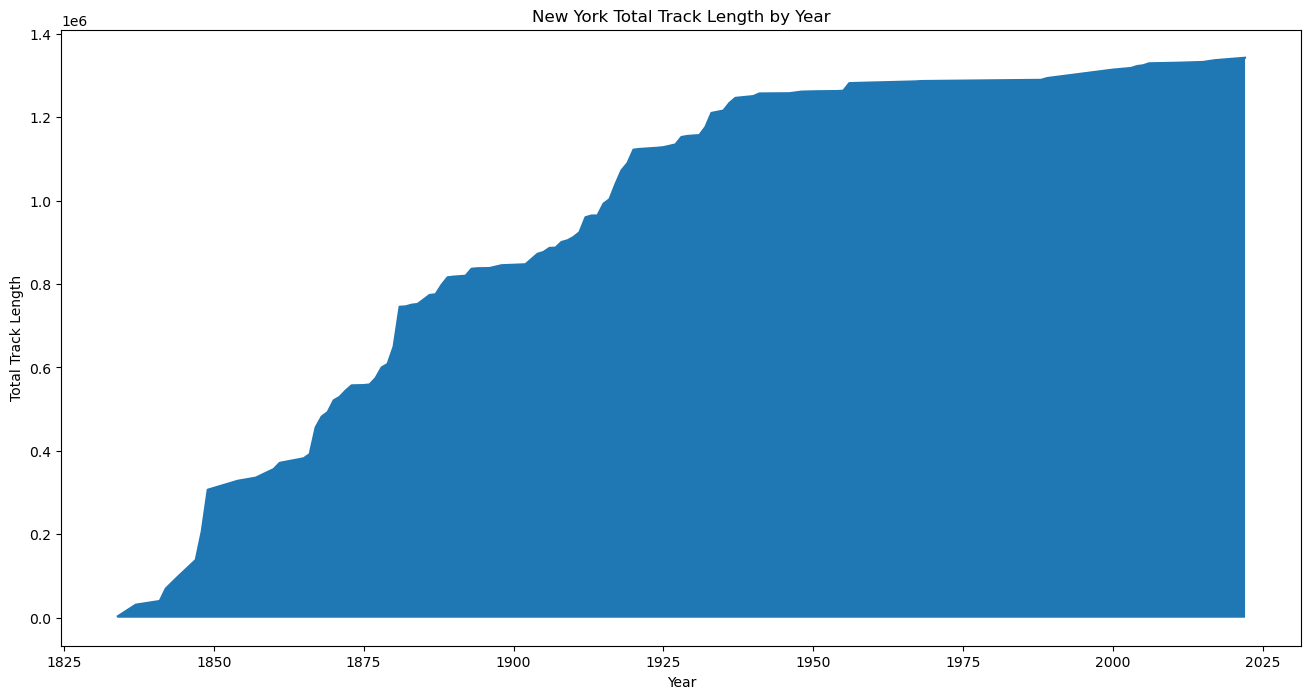
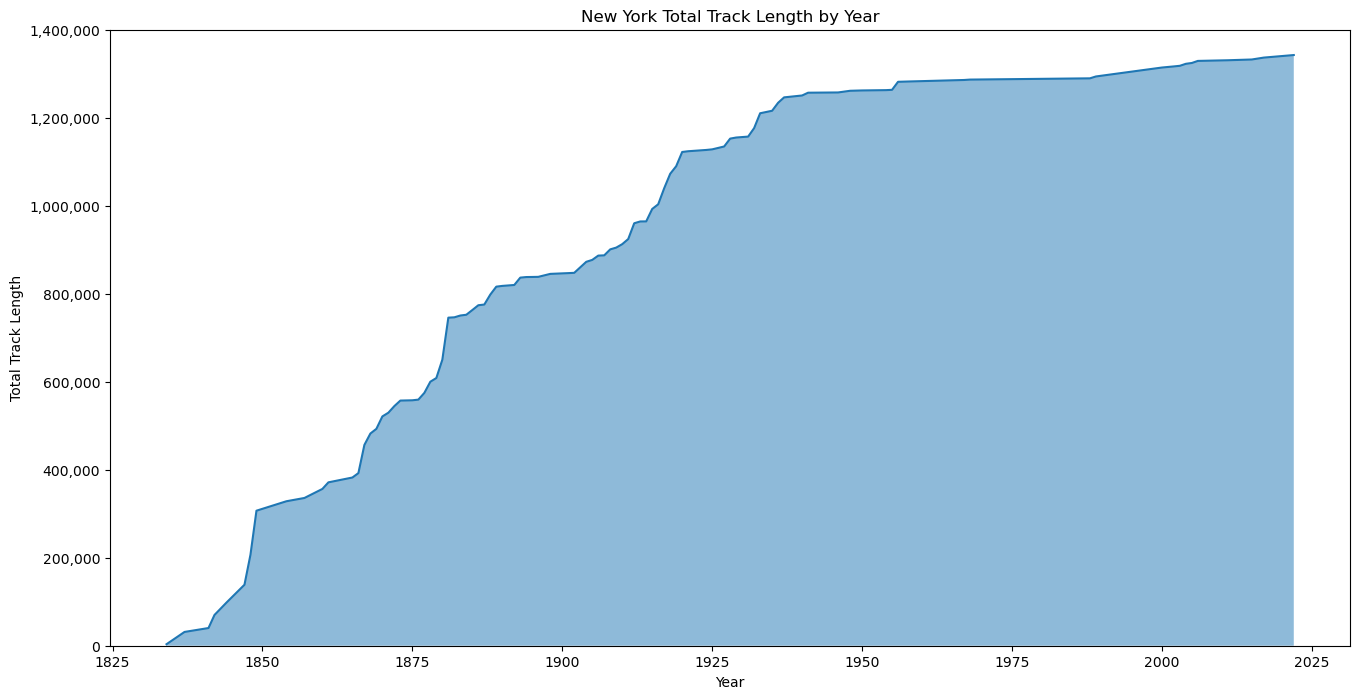
save new images, update readme

diff --git a/README.md b/README.md
@@ -12,22 +12,24 @@
 ## Table of Contents
 - [Introduction](#introduction)
 - [Overall](#overall)
-- [Top 5 Countries](#top-5-countries)
+    - [Top 5 Countries](#top-5-countries)
     - [Transit Lines Opened per Year](#transit-lines-opened-per-year)
-- [US Transit Line Counts](#us-transit-line-counts)
-- [US Heatmap](#us-heatmap)
+- [United States](#united-states)
+    - [US Transit Line Counts](#us-transit-line-counts)
+    - [US Heatmap](#us-heatmap)
+    - [New York Data](#new-york-data)
 <br />
 <br />
 
 ***
-### **Introduction**
+## **Introduction**
 ***
 This dataset, which can be found [here](https://www.kaggle.com/datasets/citylines/city-lines), includes transportation line data from a number of cities from around the world including London, Berlin, Mexico City, Barcelona, Washington D.C., and others covering many thousands of kilometers of lines.
 <br />
 <br />
 
 ***
-### **Overall**
+## **Overall**
 ***
 The data mentioned above informs people of several different factors pertaining to transportation lines around the world. An initial glimpse of the data, allowed us to indentify how the data was spread amongst the countries in the [cities]("data/cities.csv) data. As you can see, the United States has an overwhelming amount of cities with stations compared to the rest of the countries within the data.<br />
 This led us to indetify the [top five](#top-5-countries) countries to see how the United States compared.
@@ -35,9 +37,7 @@ This led us to indetify the [top five](#top-5-countries) countries to see how th
 <br />
 <br />
 
-***
 ### Top 5 Countries
-***
 The further comparison of the top five countries shows when each had station openings and how many in that particular year. It is interesting to note that the top country, United States, built a majority of its transportation lines between 1875 and and 1925. Which will be highlighted again in a [New York] analysis. 
 ![](images/top_5.png)
 <br />
@@ -49,22 +49,28 @@ The further comparison of the top five countries shows when each had station ope
 <br />
 
 ***
-### US Transit Line Counts
+## United States
 ***
-After indentifying the United States held the most cities, further analysis was conducted on those cities within the United States. What can be immeditaely identified is that the cities withing the United States are large metropolitan cities. Furthermore, it is important to note that there are other cities within the United States that host transportation stations, however the [station](data/stations.csv) data does not hold information for those cities not listed. This is important to note this is one limitation of this data set.
+
+### US Transit Line Counts
+After indentifying the United States held the most cities, further analysis was conducted on those cities within the United States. What can be immeditaely identified is that the cities withing the United States are large metropolitan cities. With [New York](#new-york-data) having the most stations.
+
+It is important to note that there are other cities within the United States that host transportation stations, however the [station](data/stations.csv) data does not hold information for those cities not listed. This is important to note this is one limitation of this data set.
 
 ![](images/us_transit_lines.png)
 <br />
 <br />
-<br />
+
 ### US Heatmap
 Additinally cities within the United States that host a transportation station are represented below with the a provides a visual representation of the density of the stations within those cities.
-
-
-This image depicts the total number of transit lines that are opened per year for the top five countries.
-
-
 
 ![](images/us_heatmap.png) 
 
 Click this [interactive map](http://127.0.0.1:5500/images/us_heatmap.html) to view and zoom to certain areas.
+<br />
+<br />
+
+### New York Data
+As previously identified, New York held the most stations in the United States. Additionaly, it was noted that the United States opened the majority of tracks were opened between the 1875 and 1925.
+
+![](images/new_york_track_length.png)
